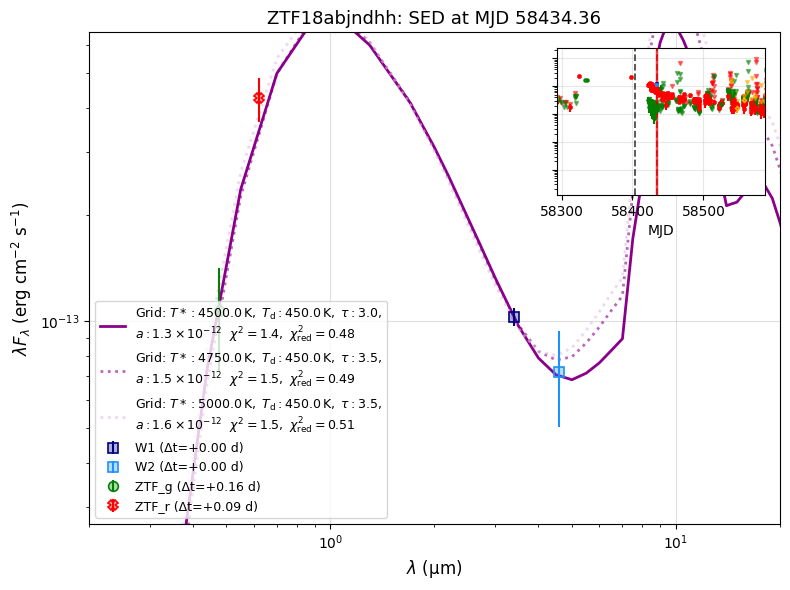
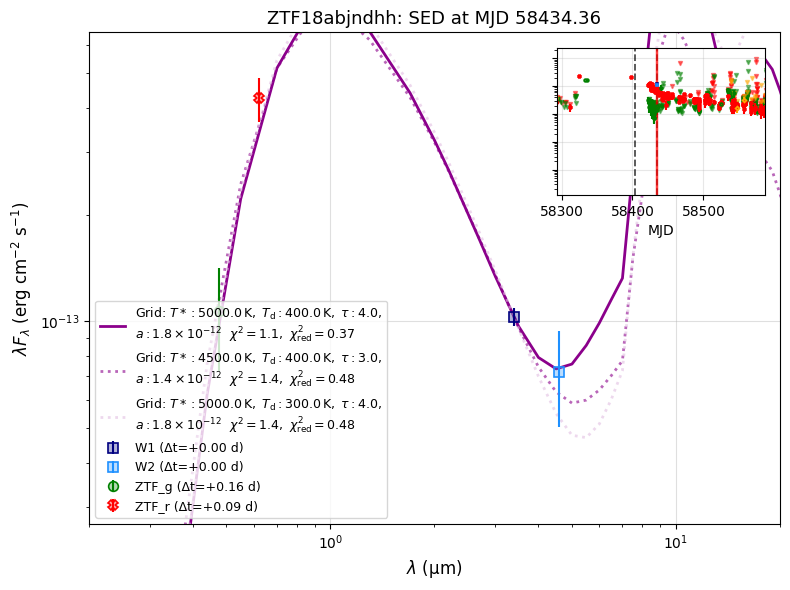
custom spectrum inputs

diff --git a/src/lltypeiip/dusty/run_template_grid.py b/src/lltypeiip/dusty/run_template_grid.py
@@ -108,13 +108,16 @@ def run_single_sed(job):
     Worker: evaluate grid for one SED epoch and return list of result rows.
     Mirrors run_grid.py idea of "unit of work", but per-SED instead of per-model folder.
     """
-    (sed,
-     tdust_values, tau_values, thick_values,
-     tstar_dummy, template_path, template_tag,
-     y_mode, use_weights,
-     runner_kwargs, runner_sig) = job
+    ((sed, sed_source),
+    tdust_values, tau_values, thick_values,
+    tstar_dummy, template_path, template_tag,
+    y_mode, use_weights,
+    runner_kwargs, runner_sig) = job
 
-    phase = sed.get("phase_days", None)
+    if "sed" in sed and isinstance(sed["sed"], dict):
+        sed = sed["sed"]
+
+    phase = sed.get("phase_days", sed.get("phase", None))
     mjd = sed.get("mjd", np.nan)
     oid = sed.get("oid", "unknown")
 
@@ -148,6 +151,7 @@ def run_single_sed(job):
 
         rows.append(dict(
             oid=str(oid),
+            sed_source=str(sed_source),
             mjd=float(mjd),
             phase_days=float(phase),
             template_tag=str(template_tag),
@@ -177,9 +181,13 @@ def main():
                         help="Tag to record in output rows.")
     
     # SED input
-    parser.add_argument("--seds_pkl", type=str, required=True,
-                        help="Pickle file containing list of SED dicts (each must have phase_days).")
-    
+    parser.add_argument("--seds_pkl", type=str, default=None,
+                    help="Pickle containing a single SED dict OR a list of SED dicts.")
+    parser.add_argument("--sed_pickle_dir", type=str, default=None,
+                        help="Directory containing *_tail_sed.pkl files (one SED dict per file).")
+    parser.add_argument("--glob", type=str, default="*_tail_sed.pkl",
+                        help="Glob used inside --sed_pickle_dir. Default '*_tail_sed.pkl'.")
+
     # output
     parser.add_argument("workdir", type=str,
                         help="Directory used for DUSTY work + caches + outputs.")
@@ -256,12 +264,65 @@ def main():
     # -----------------------------
     # Load SEDs
     # -----------------------------
-    seds_p = Path(args.seds_pkl).resolve()
-    with open(seds_p, "rb") as f:
-        seds = pickle.load(f)
+    sed_inputs = []
+    if args.sed_pickle_dir is not None:
+        sed_dir = Path(args.sed_pickle_dir).resolve()
+        if not sed_dir.exists():
+            raise FileNotFoundError(f"--sed_pickle_dir not found: {sed_dir}")
 
-    if not isinstance(seds, (list, tuple)) or len(seds) == 0:
-        raise RuntimeError("seds_pkl did not contain a non-empty list of SED dicts.")
+        pkl_paths = sorted(sed_dir.glob(args.glob))
+        if not pkl_paths:
+            raise RuntimeError(f"No files matching {args.glob} in {sed_dir}")
+
+        for p in pkl_paths:
+            with open(p, "rb") as f:
+                obj = pickle.load(f)
+
+            if not isinstance(obj, dict):
+                raise RuntimeError(f"{p.name} did not contain a single SED dict.")
+
+            if "sed" in obj and isinstance(obj["sed"], dict):
+                sed = obj["sed"].copy()
+
+                sed["oid"] = obj.get("oid", sed.get("oid", "unknown"))
+                sed["mjd"] = obj.get("mjd", sed.get("mjd", np.nan))
+
+                if "phase_days" not in sed or not np.isfinite(float(sed.get("phase_days", np.nan))):
+                    if "phase" in obj and np.isfinite(float(obj["phase"])):
+                        sed["phase_days"] = float(obj["phase"])
+
+                for k in ["t_exp_mjd", "t_exp_sig", "t_exp_band"]:
+                    if k in obj and k not in sed:
+                        sed[k] = obj[k]
+
+                sed_inputs.append((sed, str(p)))
+            else:
+                sed_inputs.append((obj, str(p)))
+
+    else:
+        if args.seds_pkl is None:
+            raise RuntimeError("Provide either --sed_pickle_dir or --seds_pkl.")
+
+        seds_p = Path(args.seds_pkl).resolve()
+        with open(seds_p, "rb") as f:
+            obj = pickle.load(f)
+
+        if isinstance(obj, dict):
+            sed_inputs.append((obj, str(seds_p)))
+        elif isinstance(obj, (list, tuple)):
+            for i, sed in enumerate(obj):
+                if not isinstance(sed, dict):
+                    raise RuntimeError(f"Element {i} in {seds_p.name} is not a dict.")
+                sed_inputs.append((sed, f"{seds_p}#{i}"))
+        else:
+            raise RuntimeError("seds_pkl must contain a dict or a list of dicts.")
+
+    if not sed_inputs:
+        raise RuntimeError("No SEDs loaded.")
+
+
+    # if not isinstance(seds, (list, tuple)) or len(seds) == 0:
+    #     raise RuntimeError("seds_pkl did not contain a non-empty list of SED dicts.")
 
     # --------------
     # Build grids 
@@ -269,12 +330,12 @@ def main():
     if args.tdust_list:
         tdust_values = _parse_list(args.tdust_list)
     else:
-        tdust_values = [200, 300, 400, 500, 600, 700, 800, 900, 1000]
+        tdust_values = [200, 400, 600, 800, 1000]
 
     if args.tau_list:
         tau_values = _parse_list(args.tau_list)
     else:
-        tau_values = [1e-3, 3e-3, 1e-2, 3e-2, 1e-1, 0.3, 1.0, 3.0]
+        tau_values = [1e-3, 1e-2, 1e-1, 0.3, 1.0, 3.0]
 
     thick_values = _parse_list(args.thick_list)
 
@@ -310,13 +371,13 @@ def main():
     # Parallel execution
     # --------------------
     jobs = []
-    for sed in seds:
+    for sed_pair in sed_inputs:
         jobs.append(
-            (sed,
-             tdust_values, tau_values, thick_values,
-             float(args.tstar_dummy), str(Path(args.template_path).resolve()), args.template_tag,
-             args.y_mode, bool(args.use_weights),
-             runner_kwargs, runner_sig)
+            (sed_pair,
+            tdust_values, tau_values, thick_values,
+            float(args.tstar_dummy), str(Path(args.template_path).resolve()), args.template_tag,
+            args.y_mode, bool(args.use_weights),
+            runner_kwargs, runner_sig)
         )
 
     max_workers = min(os.cpu_count() or 2, int(args.n_workers))
@@ -345,7 +406,7 @@ def main():
 
     df.to_csv(out_csv, index=False)
 
-    best = df.groupby(["oid", "mjd"], as_index=False).first()
+    best = df.groupby(["oid"], as_index=False).first()
     best_csv = out_csv.with_name(out_csv.stem + "_best_per_epoch.csv")
     best.to_csv(best_csv, index=False)
 

diff --git a/src/lltypeiip/dusty/scaling.py b/src/lltypeiip/dusty/scaling.py
@@ -198,3 +198,95 @@ def fit_grid_to_sed(grid_dir, sed, y_mode="Flam", use_weights=True):
     df._models = model_map
 
     return df
+
+def fit_template_grid_to_sed(template_grid_csv, sed, runner, template,
+                             template_tag="nugent_iip", y_mode="Flam", use_weights=True,
+                             top_k_build=None, folder_prefix="TEMPLATE"):
+    """
+    Convert a template-based grid CSV into DUSTY models, fit to SED.
+    """
+
+    df_all = pd.read_csv(template_grid_csv)
+
+    oid = sed.get('oid', None)
+    if oid is None:
+        raise ValueError("SED dictionary must contain 'oid' key")
+    phase = sed.get("phase_days", sed.get("phase", None))
+    if phase is None or not np.isfinite(float(phase)):
+        raise ValueError("sed must include finite 'phase_days'")
+    
+    # select SN by oid
+    df = df_all[df_all["oid"].astype(str) == str(oid)].copy()
+    if df.empty:
+        raise RuntimeError(f"No template-grid rows found for oid={oid}")
+    
+    if "template_tag" in df.columns and template_tag is not None:
+        df = df[df["template_tag"].astype(str) == str(template_tag)].copy()
+        if df.empty:
+            raise RuntimeError(f"No rows for oid={oid} with template_tag={template_tag}")
+
+    # could add logic later in case multiple SEDs per SN
+
+    sort_cols = [c for c in ["chi2_red", "chi2"] if c in df.columns]
+    if sort_cols:
+        df = df.sort_values(sort_cols).reset_index(drop=True)
+
+    if top_k_build is not None:
+        df_build = df.head(int(top_k_build)).copy()
+    else:
+        df_build = df
+
+    model_map = {}
+    rows_out = []
+
+    for idx, r in df_build.iterrows():
+        tdust = float(r["tdust"])
+        tau = float(r["tau"])
+        thick = float(r["shell_thickness"]) if "shell_thickness" in r else float(r.get("thick", 2.0))
+
+        tstar = float(r["tstar_dummy"]) if "tstar_dummy" in r else float(r.get("tstar", 6000.0))
+
+        lam_um, lamFlam, r1 = runner.evaluate_model(
+            tstar=tstar,
+            tdust=tdust,
+            tau=tau,
+            shell_thickness=thick,
+            template=template,
+            phase_days=float(phase),
+            template_tag=str(template_tag),
+        )
+
+        folder = f"{folder_prefix}_{oid}_row{idx}"
+
+        m = DustyModel(
+            folder=folder,  # not a real dir
+            Tstar=tstar,
+            Tdust=tdust,
+            tau=tau,
+            shell_thickness=thick,
+            lam_um=lam_um,
+            lamFlam=lamFlam,
+        )
+
+        fit_scale_to_sed(m, sed, y_mode=y_mode, use_weights=use_weights)
+
+        model_map[folder] = m
+
+        rows_out.append(dict(
+            folder=folder,
+            oid=str(oid),
+            tstar=m.Tstar,
+            tdust=m.Tdust,
+            tau=m.tau,
+            scale=m.scale,
+            chi2=m.chi2,
+            dof=m.dof,
+            chi2_red=m.chi2_red,
+        ))
+
+    if not rows_out:
+        raise RuntimeError(f"Could not build any DustyModel objects for oid={oid}")
+
+    df_out = pd.DataFrame(rows_out).sort_values("chi2_red").reset_index(drop=True)
+    df_out._models = model_map
+    return df_out 

diff --git a/src/lltypeiip/dusty/runner.py b/src/lltypeiip/dusty/runner.py
@@ -188,14 +188,13 @@ class DustyRunner:
         if area > 0:
             f_lam /= area
 
-        fname = f"input_spec_phase_{phase_days:.2f}.dat".replace(".", "_")
+        phase_i = int(round(float(phase_days) * 100.0))
+        fname = f"input_spec_phase_{phase_i:06d}.dat"
         path = run_dir / fname
+
         with open(path, "w") as f:
-            f.write("Nugent Type IIP template\n")
-            f.write(f"Phase (days) = {phase_days:.2f}\n")
-            f.write("lambda_um  F_lambda\n")
-            for lamv, flxv in zip(lam_um, f_lam):
-                f.write(f"{lamv:.8e} {flxv:.8e}\n")
+            for x, y in zip(lam_um, f_lam):
+                f.write(f"{x:.8e} {y:.8e}\n")
         
         return fname
 

diff --git a/src/lltypeiip/dusty/__init__.py b/src/lltypeiip/dusty/__init__.py
@@ -1,6 +1,6 @@
 from .runner import DustyRunner, silence_fds
 from .model import DustyModel, load_dusty_grid
-from .scaling import compute_chi2, fit_scale_to_sed, fit_grid_to_sed
+from .scaling import compute_chi2, fit_scale_to_sed, fit_grid_to_sed, fit_template_grid_to_sed
 from .plotting import plot_best_fit_dusty_model
 
 __all__ = [
@@ -13,7 +13,8 @@ __all__ = [
     # Scaling and fitting
     'fit_scale_to_sed',
     'fit_grid_to_sed',
+    'fit_template_grid_to_sed',
     'compute_chi2',
     # Plotting
-    plot_best_fit_dusty_model
+    'plot_best_fit_dusty_model'
 ]
